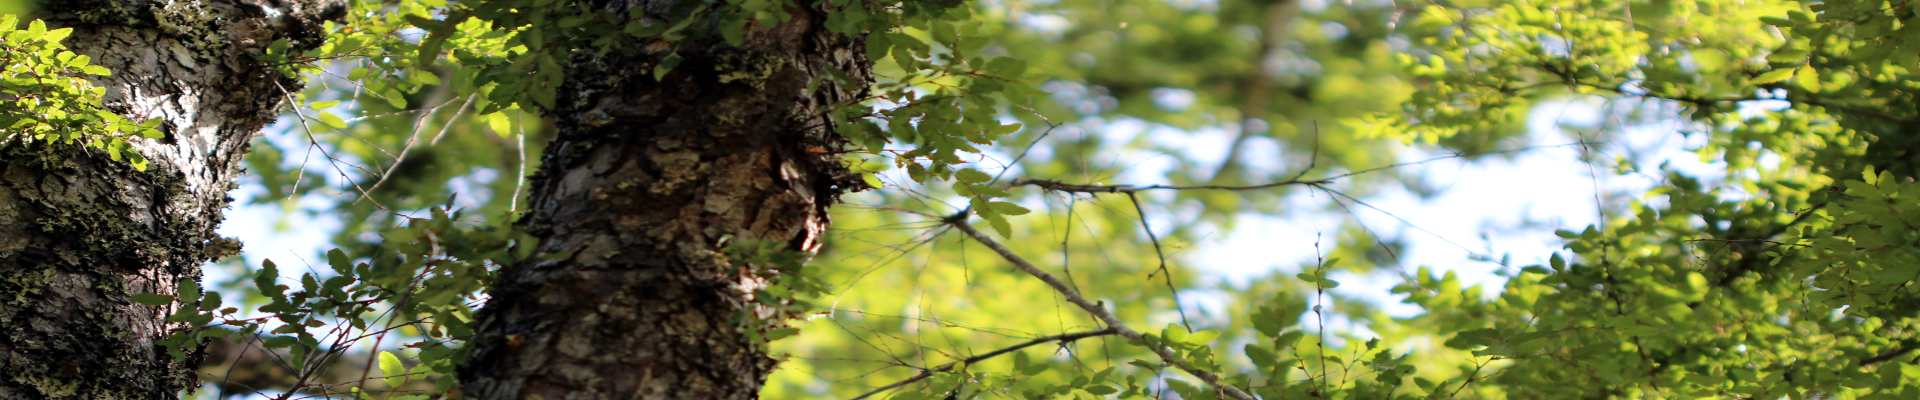
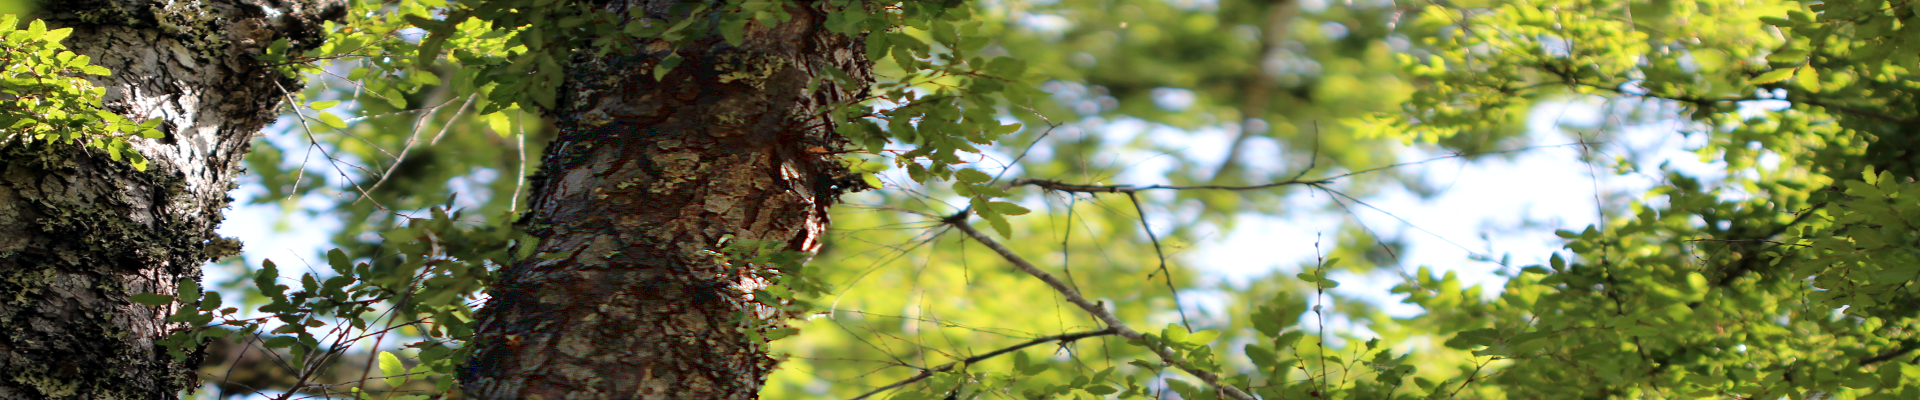
se cambia imagen de home page por JPG

Changed region(s): [[0.2188, 0.3, 0.4375, 0.99], [0.4062, 0.33, 0.4375, 0.36], [0.3438, 0.15, 0.375, 0.18]]

diff --git a/css/main.css b/css/main.css
@@ -28,7 +28,7 @@ a:hover {
 }
 
 .jumbotron {
-    background-image: url('../img/bg_1920.png');
+    background-image: url('../img/bg_1920.jpg');
     background-color: #000;
     background-repeat: no-repeat;
     background-attachment: fixed;
